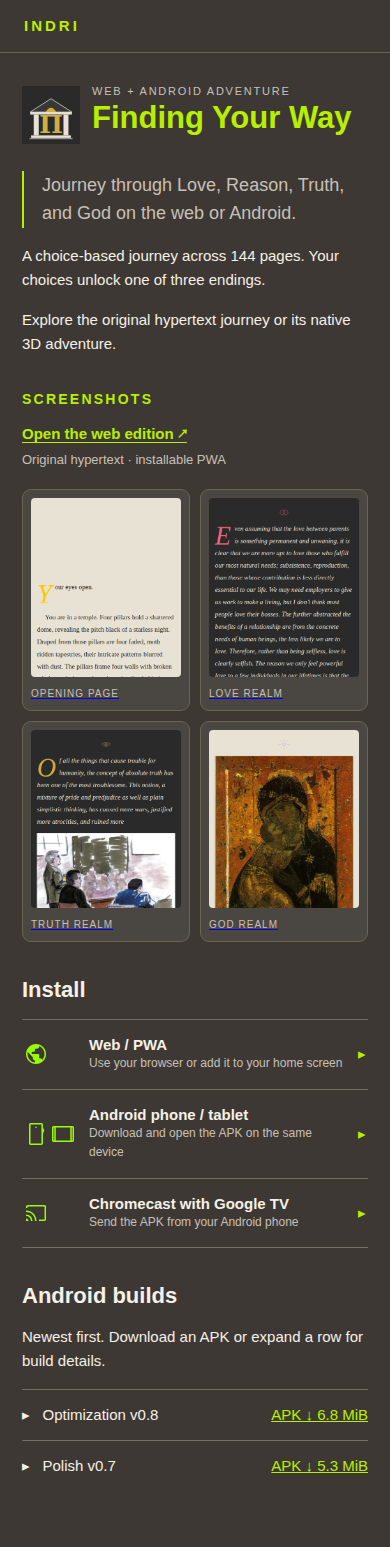
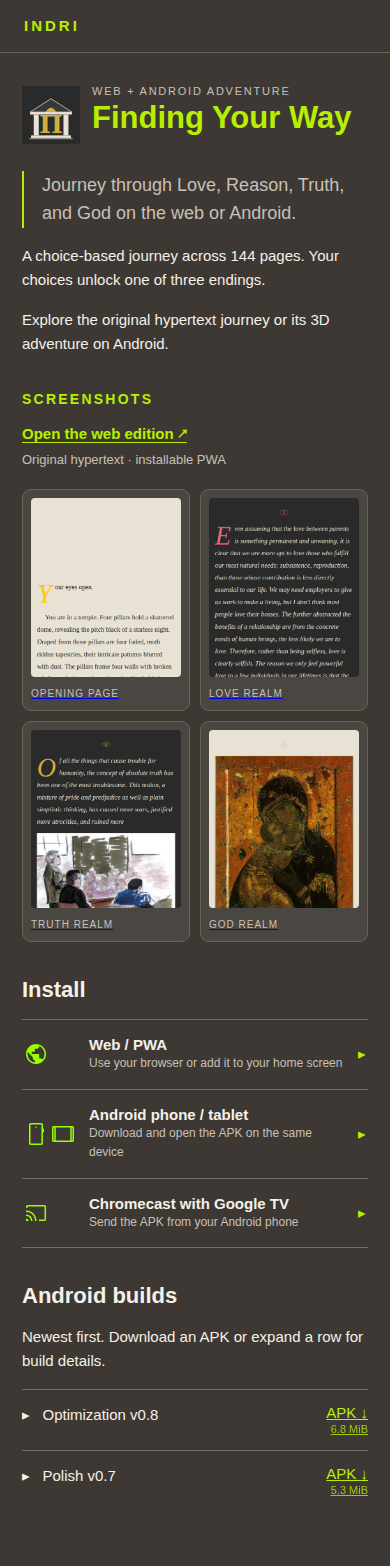
Use player-facing copy and two-line APK sizes

diff --git a/docs/plans/2026-10-09-finding-your-way-page-layout/mockup.html b/docs/plans/2026-10-09-finding-your-way-page-layout/mockup.html
@@ -34,7 +34,8 @@
     .choice small { display:block; color:var(--muted); font-size:12px; }
     .chevron { color:var(--accent); }
     .download { display:flex; justify-content:space-between; padding:13px 0; border-top:1px solid #736d62; }
-    .download a { color:var(--accent); white-space:nowrap; }
+    .download a { display:flex; flex-direction:column; align-items:flex-end; color:var(--accent); white-space:nowrap; line-height:1.3; }
+    .download a small { font-size:11px; opacity:.8; }
     @media(max-width:600px) {
       main { padding:30px 22px 56px; }
       h1 { font-size:31px; }
@@ -56,7 +57,7 @@
     <div class="hero"><img src="../../../src/assets/branding/finding-your-way/icon.svg" alt=""><div><small>Web + Android adventure</small><h1>Finding Your Way</h1></div></div>
     <p class="lede">Journey through Love, Reason, Truth, and God on the web or Android.</p>
     <p>A choice-based journey across 144 pages. Your choices unlock one of three endings.</p>
-    <p>Explore the original hypertext journey or its native 3D adventure.</p>
+    <p>Explore the original hypertext journey or its 3D adventure on Android.</p>
 
     <h2 class="section-label">Screenshots</h2>
     <div class="web-link"><a href="https://d2cpue9r0hnyl3.cloudfront.net/">Open the web edition ↗</a><span>Original hypertext · installable PWA</span></div>
@@ -76,8 +77,8 @@
 
     <h2>Android builds</h2>
     <p>Newest first. Download an APK or expand a row for build details.</p>
-    <div class="download"><span>▸ &nbsp; Optimization v0.8</span><a href="#">APK ↓ 6.8 MiB</a></div>
-    <div class="download"><span>▸ &nbsp; Polish v0.7</span><a href="#">APK ↓ 5.3 MiB</a></div>
+    <div class="download"><span>▸ &nbsp; Optimization v0.8</span><a href="#">APK ↓<small>6.8 MiB</small></a></div>
+    <div class="download"><span>▸ &nbsp; Polish v0.7</span><a href="#">APK ↓<small>5.3 MiB</small></a></div>
   </main>
 </body>
 </html>

diff --git a/docs/plans/2026-10-09-finding-your-way-page-layout.md b/docs/plans/2026-10-09-finding-your-way-page-layout.md
@@ -6,11 +6,11 @@ Make the product page easy to scan: introduce the two editions without repeating
 
 ## Layout contract
 
-1. Use the existing small app icon beside the title. Keep the app identity and journey introduction, but make the summary describe both web and native editions and remove repeated PWA copy.
+1. Use the existing small app icon beside the title. Keep the app identity and journey introduction, but make the summary describe both the web hypertext and Android 3D editions and remove repeated PWA copy. Use language suited to players throughout the public page.
 2. Put **Open the web edition** in a clear link row directly between the “screenshots” label and the four images. The link goes to `https://d2cpue9r0hnyl3.cloudfront.net/` and identifies that edition as the original web/PWA journey.
 3. Show the four screenshots as compact, equal-height previews in two columns at desktop and mobile sizes. Each preview links to its complete image for reading. Preserve all four images and captions.
 4. Follow the gallery with an **Install** section containing three matching disclosure rows: **Web / PWA**, **Android phone / tablet**, and **Chromecast with Google TV**. Use the existing homepage icons at 24 px. Each row starts closed and expands to short, ordered instructions. The web link stays visible above the screenshots even while these rows are closed.
-5. Follow the installation choices with **Android builds**, newest first. The phone and Chromecast steps point to these downloads. Preserve the current release timeline and its details. Show the measured file size inside each APK link on one line at desktop and mobile widths (for example, **APK ↓ 6.8 MiB**) so the size is visibly part of the download action.
+5. Follow the installation choices with **Android builds**, newest first. The phone and Chromecast steps point to these downloads. Preserve the current release timeline and its details. Keep the measured file size inside each APK download link, beneath **APK ↓** in a slightly smaller font at both desktop and mobile widths.
 6. Use the site's design tokens. On desktop, keep the content within the existing 720 px article column; on mobile, let the rows fill the article width without horizontal scrolling. A disclosure row has the same structure and spacing on both viewports.
 
 ## Mockups
@@ -28,13 +28,15 @@ The mockups show the intended default state, with installation details closed. T
 - [x] Add the web edition link directly above the four screenshot cards.
 - [x] Use compact screenshot previews with direct links to the complete images.
 - [x] Make Web/PWA, Android phone/tablet and Chromecast follow one disclosure pattern, using the existing platform icons and retaining their useful installation steps.
-- [x] Show each APK's computed size within its download link on both desktop and mobile; keep the release timeline layout and history.
-- [x] Verify the built page at 1440, 390 and 320 px widths: web link, four screenshots with full-image links, three keyboard-operated disclosure rows, all nine APK links with inline sizes, expanded release details and no horizontal overflow. A separate app page retains its existing header.
+- [x] Show each APK's computed size as a smaller second line within its download link on both desktop and mobile; keep the release timeline layout and history.
+- [x] Remove “native” from copy intended for players, including the introduction, installation links and release details; keep the Android and web distinction clear.
+- [x] Verify the built page at 1440, 390 and 320 px widths: web link, four screenshots with full-image links, three keyboard-operated disclosure rows, all nine two-line APK links, expanded release details, no “native” in player-facing article text and no horizontal overflow. A separate app page retains its existing header.
 - [x] Publish and verify the page layout as v0.1.180.
 - [x] Publish and verify the inline APK-size refinement as v0.1.181.
+- [x] Publish and verify the two-line APK-size and player-facing copy refinement as v0.1.182.
 
 ## Notes
 
-The web/PWA is the original hypertext edition. The APKs are the native 3D edition. The web link is hosted at the existing CloudFront address confirmed by Will; the Indri catalogue itself is served through Cloudflare.
+The web/PWA is the original hypertext edition. The APKs contain the 3D Android edition. The web link is hosted at the existing CloudFront address confirmed by Will; the Indri catalogue itself is served through Cloudflare.
 
 AI assistance: Codex. Exact model/version, tool version and reasoning-effort metadata were not available in verified session metadata and are not inferred.

diff --git a/TODO.md b/TODO.md
@@ -35,7 +35,7 @@ _Nothing parked._
 
 ## Done
 
-- [x] 2026-10-09 — Re-laid out Finding Your Way with the web link above four screenshots, three consistent installation guides, inline APK download sizes and desktop/mobile mockups; published v0.1.180–v0.1.181 — [plan](docs/plans/2026-10-09-finding-your-way-page-layout.md).
+- [x] 2026-10-09 — Re-laid out Finding Your Way with the web link above four screenshots, three consistent installation guides, two-line APK download sizes and desktop/mobile mockups; published v0.1.180–v0.1.182 — [plan](docs/plans/2026-10-09-finding-your-way-page-layout.md).
 
 - [x] 2026-10-06 — Republished patient-framing v0.5.5 APK only; live page/download/private boundary pass. See [plan](docs/plans/2026-10-05-finding-your-way-milestones.md).
 

diff --git a/docs/plans/.history/2026-10-09-finding-your-way-page-layout.md b/docs/plans/.history/2026-10-09-finding-your-way-page-layout.md
@@ -1,8 +1,13 @@
 | Date | Change |
 |------|--------|
+| [2026-10-09](https://github.com/wbniv/indri.studio/commit/b6db4b5) | Show APK sizes inside Finding Your Way download links |
 | [2026-10-09](https://github.com/wbniv/indri.studio/commit/c9d1800) | Rework Finding Your Way page layout and install guides |
 
 <!--history-meta v1
+b6db4b5	author	Will Norris
+b6db4b5	added	5
+b6db4b5	deleted	3
+b6db4b5	files	1
 c9d1800	author	Will Norris
 c9d1800	added	38
 c9d1800	deleted	0

diff --git a/src/content/apps/finding-your-way.md b/src/content/apps/finding-your-way.md
@@ -19,4 +19,4 @@ screenshots:
 
 A choice-based journey across four realms of argument, each asking you to affirm or deny *Being*. Your choices unlock one of three endings.
 
-Play the original 144-page hypertext in your browser, or explore the native 3D adventure on Android.
+Play the original 144-page hypertext in your browser, or explore the 3D adventure on Android.
